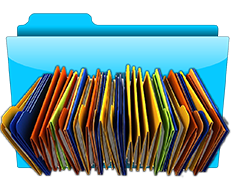
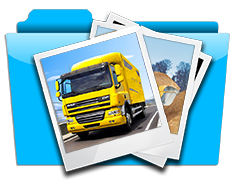
Message | Gallery  ,,,,, 11:14pm   23.06.2014

diff --git a/css/style.css b/css/style.css
@@ -184,7 +184,7 @@ box-shadow: 4px 4px 10px rgba(0, 0, 0, 0.60);
     -icab-border-radius: 4px;
     border-radius: 4px;
 }
-
+/*----------------------Gallery stack---------------------------*/
 .images{
     display: inline-block;
     -webkit-transition-duration: 0.3s;
@@ -238,6 +238,8 @@ box-shadow: 4px 4px 10px rgba(0, 0, 0, 0.60);
     -webkit-transform: scale(1.1) rotate(4deg);
     transform: scale(1.1) rotate(4deg);
 }
+
+/*--------------------------------------------------------*/
 
     .font-style {
     font-family: Segoe, "Segoe UI", "Helvetica Neue", Arial, sans-serif;

diff --git a/protected/messages/am/language.php b/protected/messages/am/language.php
@@ -24,6 +24,9 @@ return array (
     'back'=>'Գնալ հետ',
     'footer'=>'© 2014 «Ssystems — ՎԱՌԵԼԻՔԻ ԱՐՁԱՆԱԳՐԻՉՆԵՐ ՆԵՐՄՈՒԾՈՂ ԸՆԿԵՐՈՒԹՅՈՒՆ ». Բոլոր իրավունքները պաշտպանված են.',
     'header'=>'Omnicomm ընկերության պաշտոնական ներկայացուցիչը` Հայաստանում, ԼՂՀ-ում և Վրաստանում:',
+    'gallery-img'=>'Նկարներ',
+    'gallery-vid'=>'Տեսանյութեր',
+    'gallery-pres'=>'Պրեզենտացիաներ',
    // 'mail_success'=>'Շնորհակալություն մեզ հետ կապ հաստատելու համար',
     //'mail_failure'=>'Խնդրում ենք դաշտերը ճիշտ մուտքագրեք',
     //'go_back'=>'Գնալ Հետ',

diff --git a/protected/messages/ru/language.php b/protected/messages/ru/language.php
@@ -24,6 +24,9 @@ return array (
     'back'=>'Назад',
     'footer'=>'© 2014 «Ssystems — КОМПАНИЯ ПО ИМПОРТУ РЕГИСТРАТОРОВ ТОПЛИВА». Все права защищены.',
     'header'=>'Официальный представитель компании Omnicomm в Армении, Нагорном Карабахе и Грузии.',
+    'img'=>'Картинки',
+    'vid'=>'Видео',
+    'pres'=>'Презентации',
    // 'mail_success'=>'Спасибо для контакта с нами',
     //'mail_failure'=>'Пожалуйста заполните все поля правильно',
     //'go_back'=>'Назад',

diff --git a/themes/own/views/site/gallery.php b/themes/own/views/site/gallery.php
@@ -37,6 +37,7 @@ $this->renderPartial('_menu', false,false);
                     <a class="modal" id="28" href="<?=$baseUrl.'/'.Yii::t('language','prefix').'/site/video/'?>">
                         <div width="300px" height="250px">
                             <img src="<?=$baseUrl?>/images/video.png" class="vid" width="235px" height="180px" style="margin-left: -25px; margin-top: 25px; margin-bottom: 60px;  ">
+
                         </div>
                         </a>
                 </td>

diff --git a/protected/messages/en/language.php b/protected/messages/en/language.php
@@ -24,6 +24,9 @@ return array (
     'back'=>'Back',
     'footer'=>'© 2014 «Ssystems — FUEL REGISTRATORS IMPORTATION COMPANY ». All rights reserved',
     'header'=>'Omnicomm companys official representative in Armenia, Nagorno-Karabakh and Georgia.',
+    'gallery-img'=>'Pictures',
+    'gallery-vid'=>'Videos',
+    'gallery-pres'=>'Presentation',
     //'mail_failure'=>'Please fill all the fields correctly',
     //'go_back'=>'Go Back',
    // 'Nail_solutions'=>'Nail Solutions',
